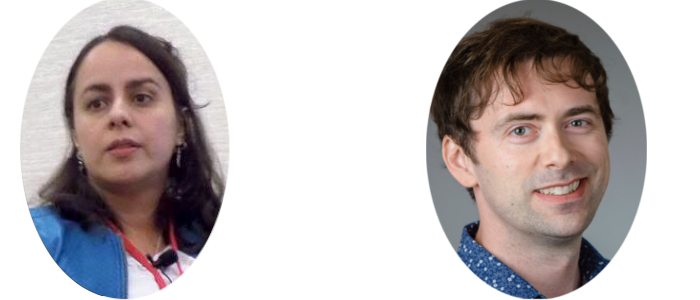
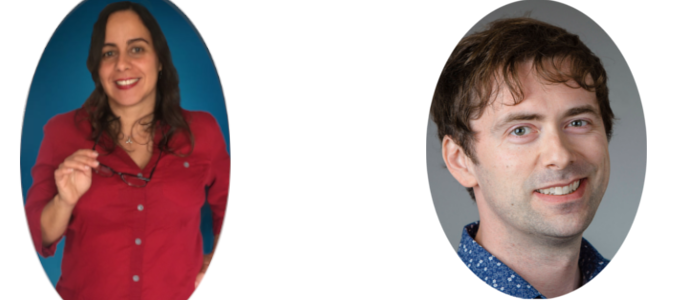
updating photo

Changed region(s): [[0.03, 0.0, 0.33, 1.0]]

diff --git a/index.html b/index.html
@@ -50,7 +50,7 @@ The aim of this satellite workshop is to open cross-field discussions about the 
 <font size="8"> <center> Program </center> </font>
 <p> 14:00-14:40 Geoffrey West: TBA   </p>
 <p> 14:40-15:10 Geza Odor: Super-spreader hot-spots, mobility and lock-down effects on the dynamics of SIR epidemic models </p>
-<p> 15:10-15:50 Raissa M. D'Souza: TBA </p>
+<p> 15:10-15:50 Raissa M. D'Souza: Criticality on networks: universality classes, power laws, and Dragon Kings </p>
 <p>  Break 15:10-16:30 <p>
 <p>  16:30 – 17:10 Sergey Dorogovtsev: Localization in complex networks <p>
 <p>  17:00-17:30 Tuan Pham: The effect of social balance on social fragmentation <p>
@@ -67,7 +67,7 @@ The aim of this satellite workshop is to open cross-field discussions about the 
 <footer4>
 <A name="organisers"></A>
   <FONT SIZE=6> <CENTER> Organisers </CENTER> </FONT>
-<H2 ALIGN=CENTER> <img src="organisers.png", WIDTH=600/>  </H2>
+<H2 ALIGN=CENTER> <img src="organisers2.png", WIDTH=600/>  </H2>
 <p > <A HREF="https://yerali.github.io" style="color: rgb(0,255,0)"><font color="#696969"> <u> Yérali Gandica </u>  </A>&emsp;  &emsp; &emsp;  &emsp; &emsp;  &emsp; &emsp;  &emsp;  &emsp; &emsp;  
 <A HREF="https://petterhol.me/about/" style="color: rgb(0,255,0)"><font color="#696969"> <u> Petter Holme </u> </A>  </p >
 </footer4>
